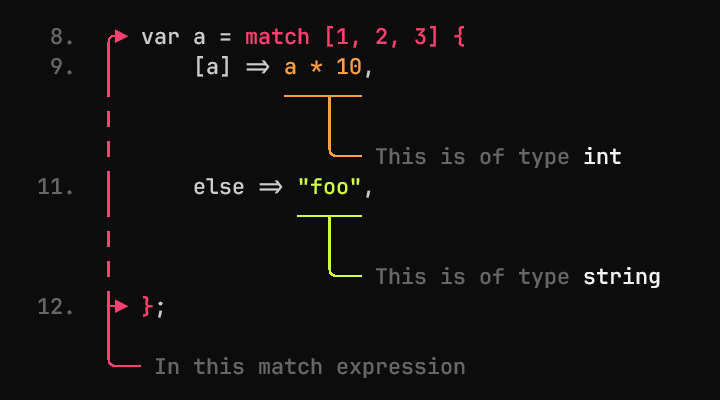
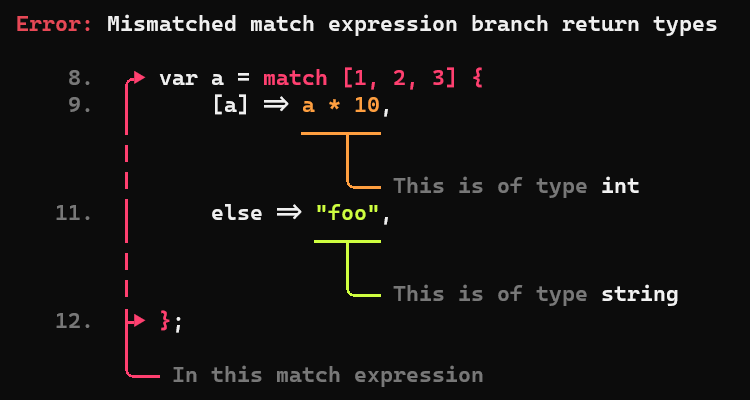
small example update

diff --git a/examples/basic.rs b/examples/basic.rs
@@ -2,6 +2,11 @@ use colored::Colorize;
 use lyneate::report::Report;
 
 fn main() {
+    println!(
+        "{} Mismatched match expression branch return types\n",
+        "Error:".bright_red()
+    );
+
     let report = Report::new_char_spanned(
         include_str!("basic.pseudo"),
         [
